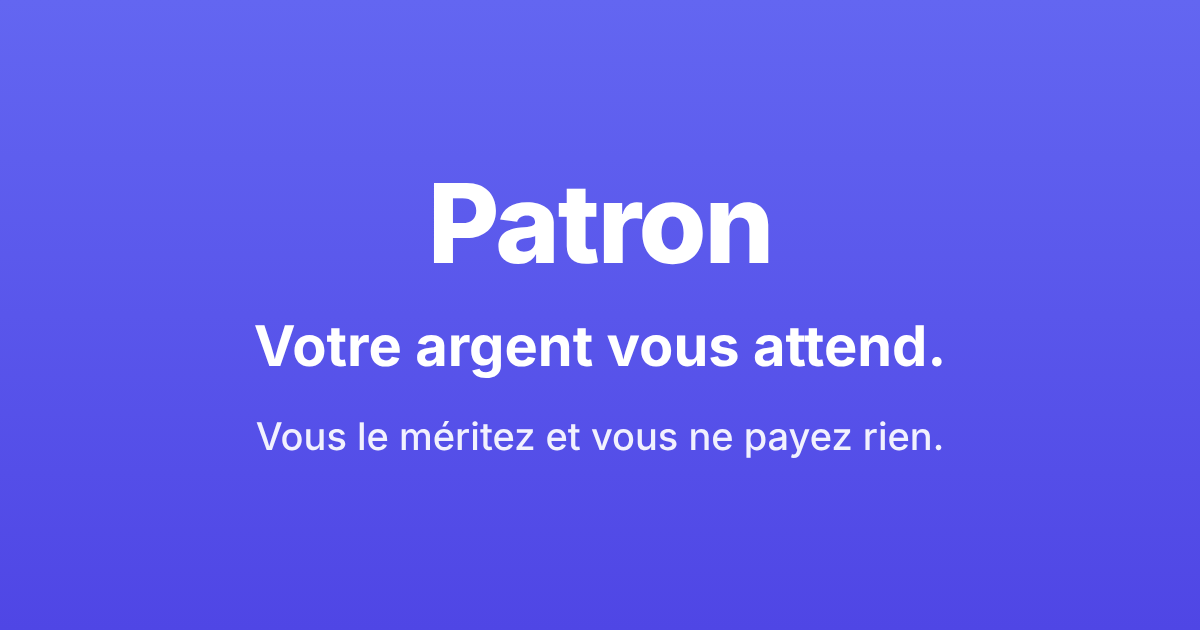
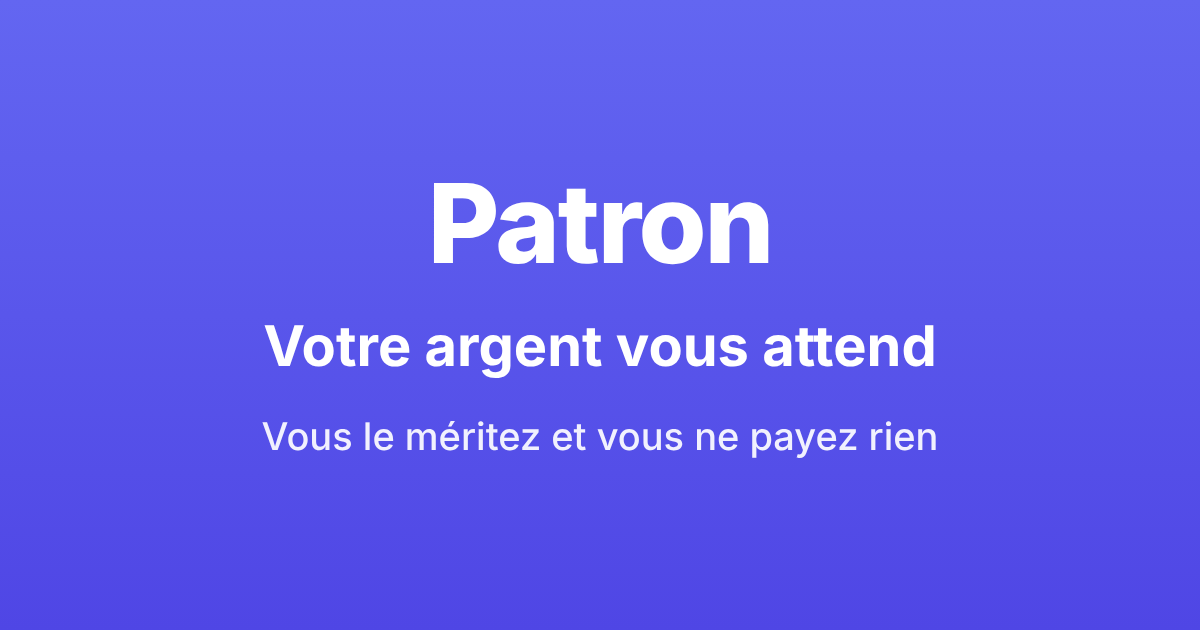
Invite card: no full stop after the two lines
« Votre argent vous attend » and « Vous le méritez et vous ne payez rien », same
card otherwise (1200x630, re-rendered from scripts/invite-og-card.html).

Claude-Session: https://claude.ai/code/session_01WzyfUJNsfdWCrcXeEK2poS

Changed region(s): [[0.2158, 0.5127, 0.8017, 0.6032], [0.2158, 0.6635, 0.8017, 0.7238]]

diff --git a/scripts/invite-og-card.html b/scripts/invite-og-card.html
@@ -77,8 +77,8 @@
 <body>
     <div class="card">
         <div class="brand">Patron</div>
-        <div class="tagline">Votre argent vous attend.</div>
-        <div class="sub">Vous le méritez et vous ne payez rien.</div>
+        <div class="tagline">Votre argent vous attend</div>
+        <div class="sub">Vous le méritez et vous ne payez rien</div>
     </div>
 </body>
 
